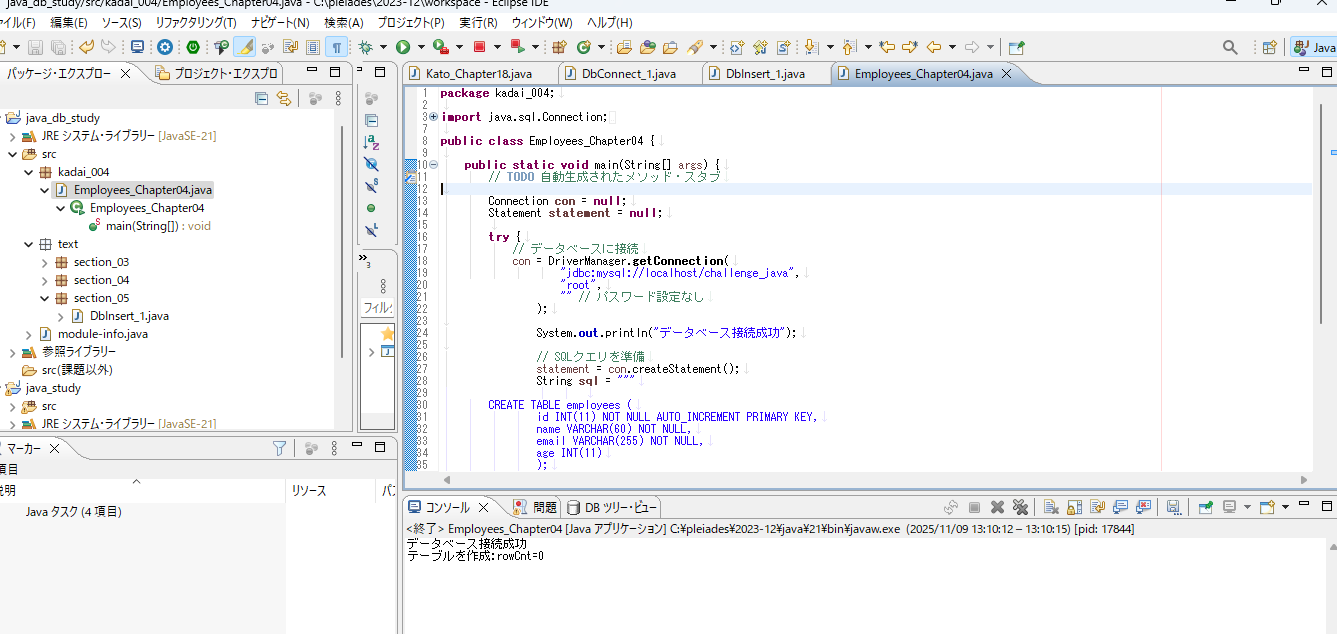
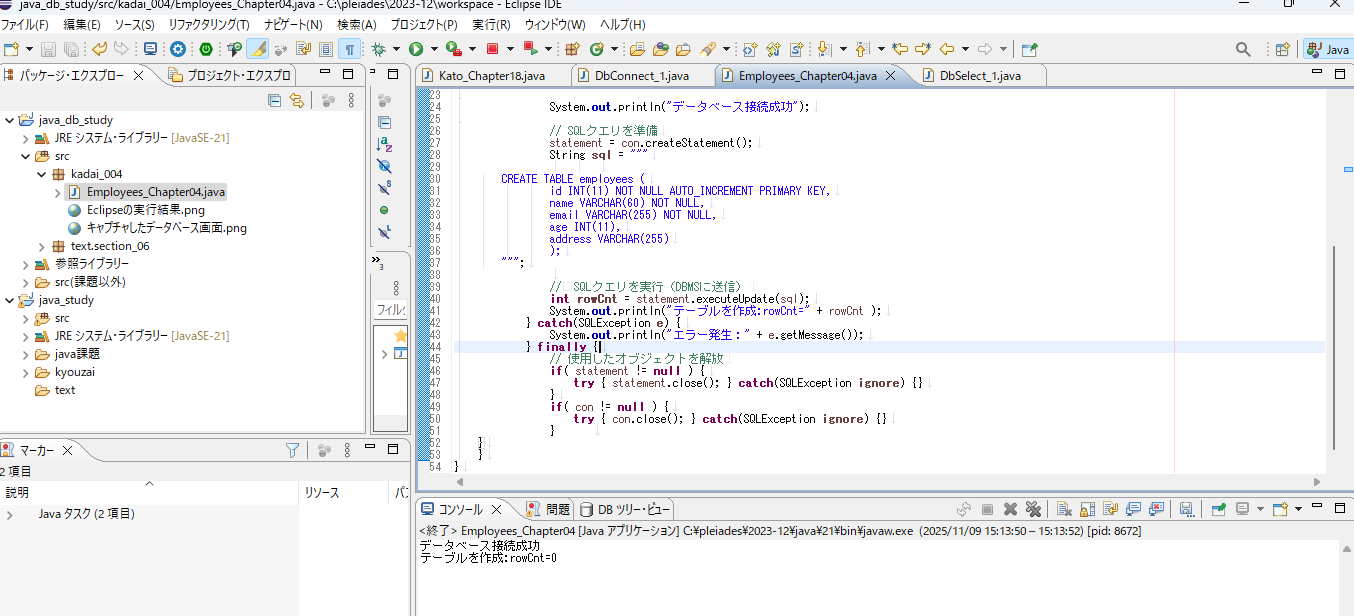
kadai_004の再々提出

diff --git a/kadai_004/Employees_Chapter04.java b/kadai_004/Employees_Chapter04.java
@@ -31,7 +31,8 @@ public class Employees_Chapter04 {
 				id INT(11) NOT NULL AUTO_INCREMENT PRIMARY KEY,
 				name VARCHAR(60) NOT NULL,
 				email VARCHAR(255) NOT NULL,
-				age INT(11)
+				age INT(11),
+				address VARCHAR(255)
 				);
 		""";
 	            
